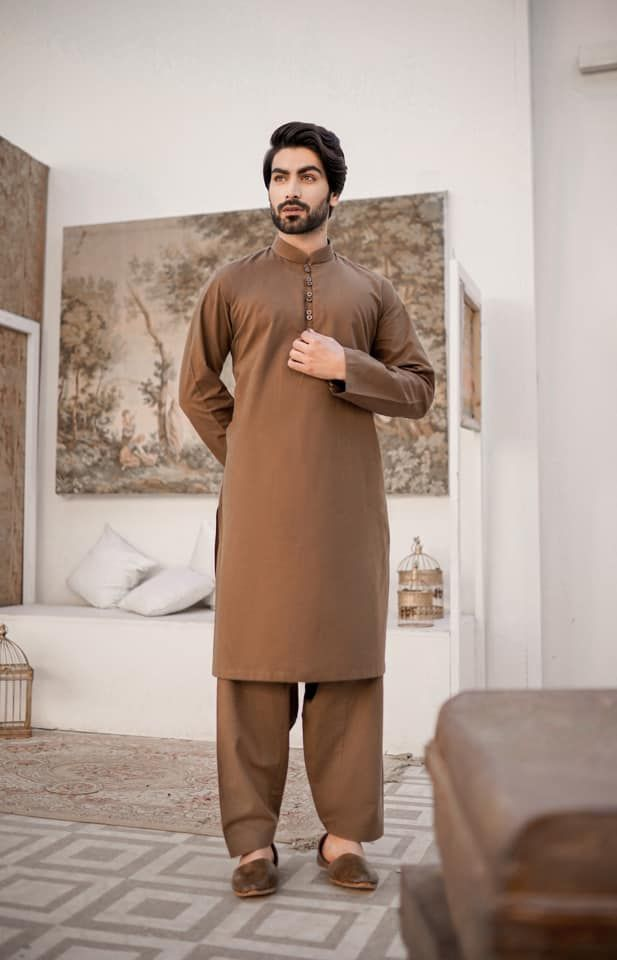
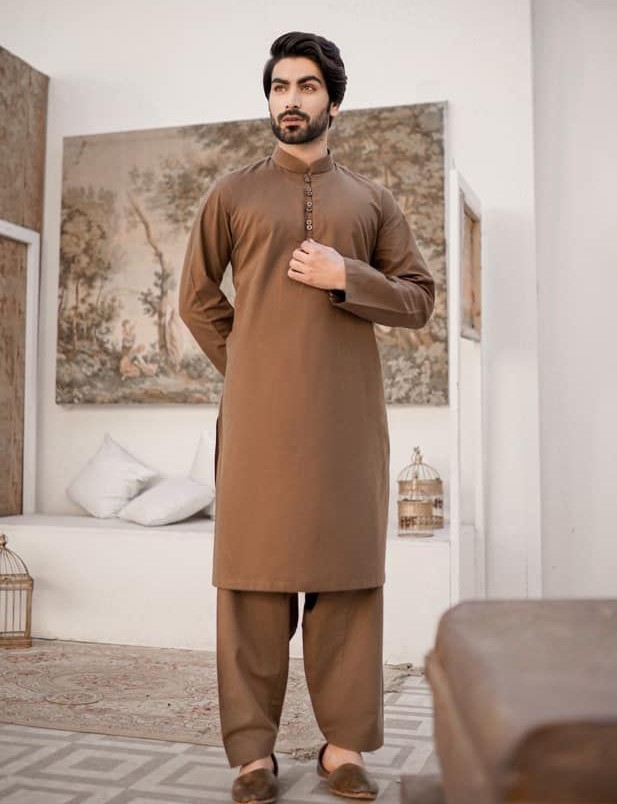
Made the product card and the clothes cover images responsive making the whole clothes page responsive.

diff --git a/src/pages/Clothes.jsx b/src/pages/Clothes.jsx
@@ -1,5 +1,5 @@
 import React from 'react';
-import CoverImage from '../components/home/CoverImage';
+import CoverImage from '../components/shared/CoverImage';
 import ProductCard from '../components/shared/ProductCard';
 import CTA from '../components/shared/CTA';
 import ClothesList from '../helpers/ClothesList';
@@ -30,7 +30,7 @@ const Clothes = () => {
                     <div className='grid lg-custom:grid-cols-3 md:grid-cols-2 grid-cols-1 gap-x-24 gap-y-24'>
                         {ClothesList().map((p) => {
                             return (
-                                <ProductCard key={p.id} name={p.name} price={p.price} imgUrl={p.url} />
+                                <ProductCard key={p.id} name={p.name} price={p.price} bgimgUrl={p.url} />
                             )
                         })}
                     </div>

diff --git a/src/components/shared/ProductCard.jsx b/src/components/shared/ProductCard.jsx
@@ -1,10 +1,9 @@
 import React from 'react';
 
-const ProductCard = ({ name, price, imgUrl }) => {
+const ProductCard = ({ name, price, bgimgUrl }) => {
     return (
         <div>
-            <div className='bg-[#d3d3d3] lg-custom:h-[400px] h-[450px] rounded-sm'>
-                <img className='w-full h-full object-cover rounded-sm' src={imgUrl} alt="" />
+            <div className='bg-[#d3d3d3] xs:bg-[0px_0px] bg-center lg-custom:h-[400px] h-[450px] rounded-sm' style={{ backgroundImage: `url(${bgimgUrl})`, backgroundRepeat: 'no-repeat', backgroundSize: 'cover' }}>
             </div>
             <div className='flex 2xs-custom:flex-row flex-col justify-between mt-5 items-center'>
                 <div className='2xs-custom:block flex'>

diff --git a/src/components/shared/CoverImage.jsx b/src/components/shared/CoverImage.jsx
@@ -3,7 +3,7 @@ import CTA from '../shared/CTA';
 
 const CoverImage = ({ isCTA = true, title, margin, bgImgUrl }) => {
     return (
-        <div className='w-full bg-cover bg-[#cdc6c0] h-[600px] flex justify-center items-end' style={{ backgroundImage: `url(${bgImgUrl})` }}>
+        <div className='w-full bg-cover lg:bg-top bg-center bg-[#cdc6c0] h-[600px] flex justify-center items-end' style={{ backgroundImage: `url(${bgImgUrl})` }}>
             {isCTA ? (
                 <CTA title={title} margin={margin} />
             ) : (

diff --git a/src/pages/LojaProducts.jsx b/src/pages/LojaProducts.jsx
@@ -10,7 +10,7 @@ import CTA from '../components/shared/CTA';
 import Gallery from '../components/home/Gallery';
 import SellerCTA from '../components/loja/SellerCTA';
 import Locations from '../components/loja/Locations';
-import CoverImage from '../components/home/CoverImage';
+import CoverImage from '../components/shared/CoverImage';
 import { Link } from 'react-router-dom';
 
 const LojaProducts = () => {

diff --git a/src/pages/Accessories.jsx b/src/pages/Accessories.jsx
@@ -1,5 +1,5 @@
 import React from 'react';
-import CoverImage from '../components/home/CoverImage';
+import CoverImage from '../components/shared/CoverImage';
 import ProductCard from '../components/shared/ProductCard';
 import CTA from '../components/shared/CTA';
 import AccessoriesList from '../helpers/AccessoriesList';

diff --git a/src/pages/Appliances.jsx b/src/pages/Appliances.jsx
@@ -1,5 +1,5 @@
 import React from 'react';
-import CoverImage from '../components/home/CoverImage';
+import CoverImage from '../components/shared/CoverImage';
 import ProductCard from '../components/shared/ProductCard';
 import CTA from '../components/shared/CTA';
 import AppliancesList from '../helpers/AppliancesList';

diff --git a/src/pages/LojaSub.jsx b/src/pages/LojaSub.jsx
@@ -1,5 +1,5 @@
 import React from 'react';
-import CoverImage from '../components/home/CoverImage';
+import CoverImage from '../components/shared/CoverImage';
 import ProductCard from '../components/shared/ProductCard';
 import CTA from '../components/shared/CTA';
 import ClothesList from '../helpers/ClothesList';
